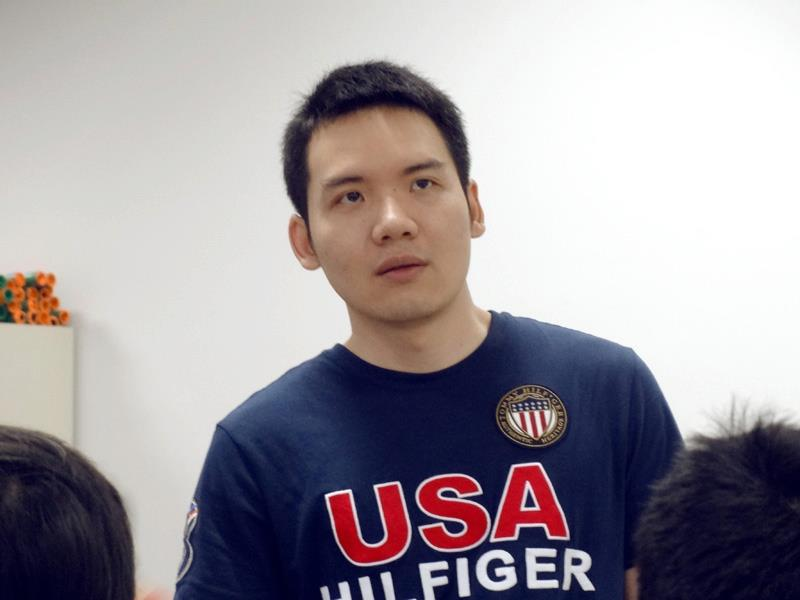
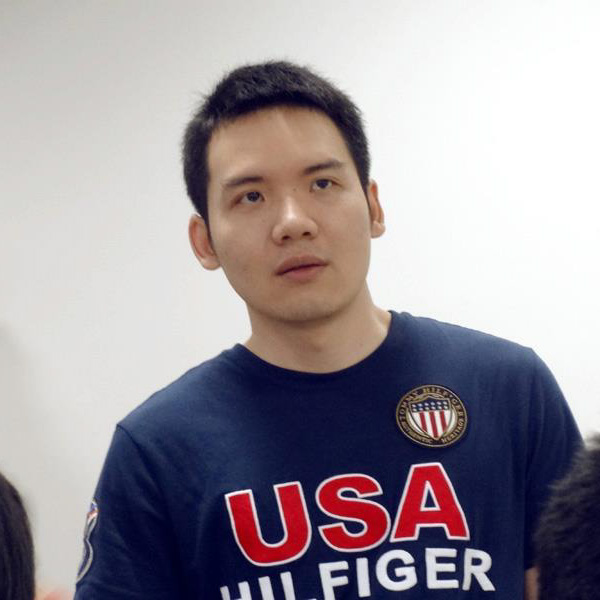
Update images.

diff --git a/index.html b/index.html
@@ -299,7 +299,7 @@
 				</div>
 				<div class="col-md-3 col-sm-6 col-xs-12 wow fadeIn" data-wow-offset="50" data-wow-delay="1.6s">
 					<div class="team-wrapper">
-						<img src="images/tinh.jpg" class="img-responsive" alt="team img 2">
+						<img src="images/tinh_edited.jpg" class="img-responsive" alt="team img 2">
 						<div class="team-des">
 							<h4>TĨNH</h4>
 							<span>Senior Front-end Developer</span>
@@ -320,10 +320,9 @@
 				<div class="col-md-3 col-sm-6 col-xs-12 wow fadeIn" data-wow-offset="50" data-wow-delay="1.6s">
 					<div class="team-wrapper">
 						<img src="images/doan.jpg" class="img-responsive" alt="team img 4">
-						<div class="team-des">
+						<div class="team-des" style="padding-bottom: 0px;">
 							<h4>DOÃN</h4>
-							<span>Project Manager</span>
-							<span>Senior Full-stack Developer</span>
+							<span>Project Manager, Full-stack Developer</span>							
 							<p>Angular, NodeJS, Java, AWS</p>
 						</div>
 					</div>
@@ -336,23 +335,22 @@
 						<img src="images/kiet.jpg" class="img-responsive" alt="team img 1">
 						<div class="team-des">
 							<h4>KIỆT</h4>
-							<span>Full-stack Developer</span>
+							<span>Senior Full-stack Developer</span>
 							<p>Angular, NodeJS, Rails, AWS</p>
 						</div>
 					</div>
 				</div>
-				<!-- <div class="col-md-3 col-sm-6 col-xs-12 wow fadeIn" data-wow-offset="50" data-wow-delay="1.6s">
+				<div class="col-md-3 col-sm-6 col-xs-12 wow fadeIn" data-wow-offset="50" data-wow-delay="1.6s">
 					<div class="team-wrapper">
-						<img src="images/team-img2.jpg" class="img-responsive" alt="team img 2">
+						<img src="images/hai_edited.jpg" class="img-responsive" alt="team img 2">
 						<div class="team-des">
-							<h4>MARY</h4>
-							<span>Developer</span>
-							<p>Lorem ipsum dolor sit amet, consectetur adipiscing elitquisque tempus ac eget diam et laoreet phasellus ut nisi id
-								leo molest.</p>
+							<h4>HẢI</h4>
+							<span>Full-stack Developer</span>
+							<p>Angular, NodeJS, Java</p>
 						</div>
 					</div>
 				</div>
-				<div class="col-md-3 col-sm-6 col-xs-12 wow fadeIn" data-wow-offset="50" data-wow-delay="1.3s">
+				<!-- <div class="col-md-3 col-sm-6 col-xs-12 wow fadeIn" data-wow-offset="50" data-wow-delay="1.3s">
 					<div class="team-wrapper">
 						<img src="images/team-img3.jpg" class="img-responsive" alt="team img 3">
 						<div class="team-des">
